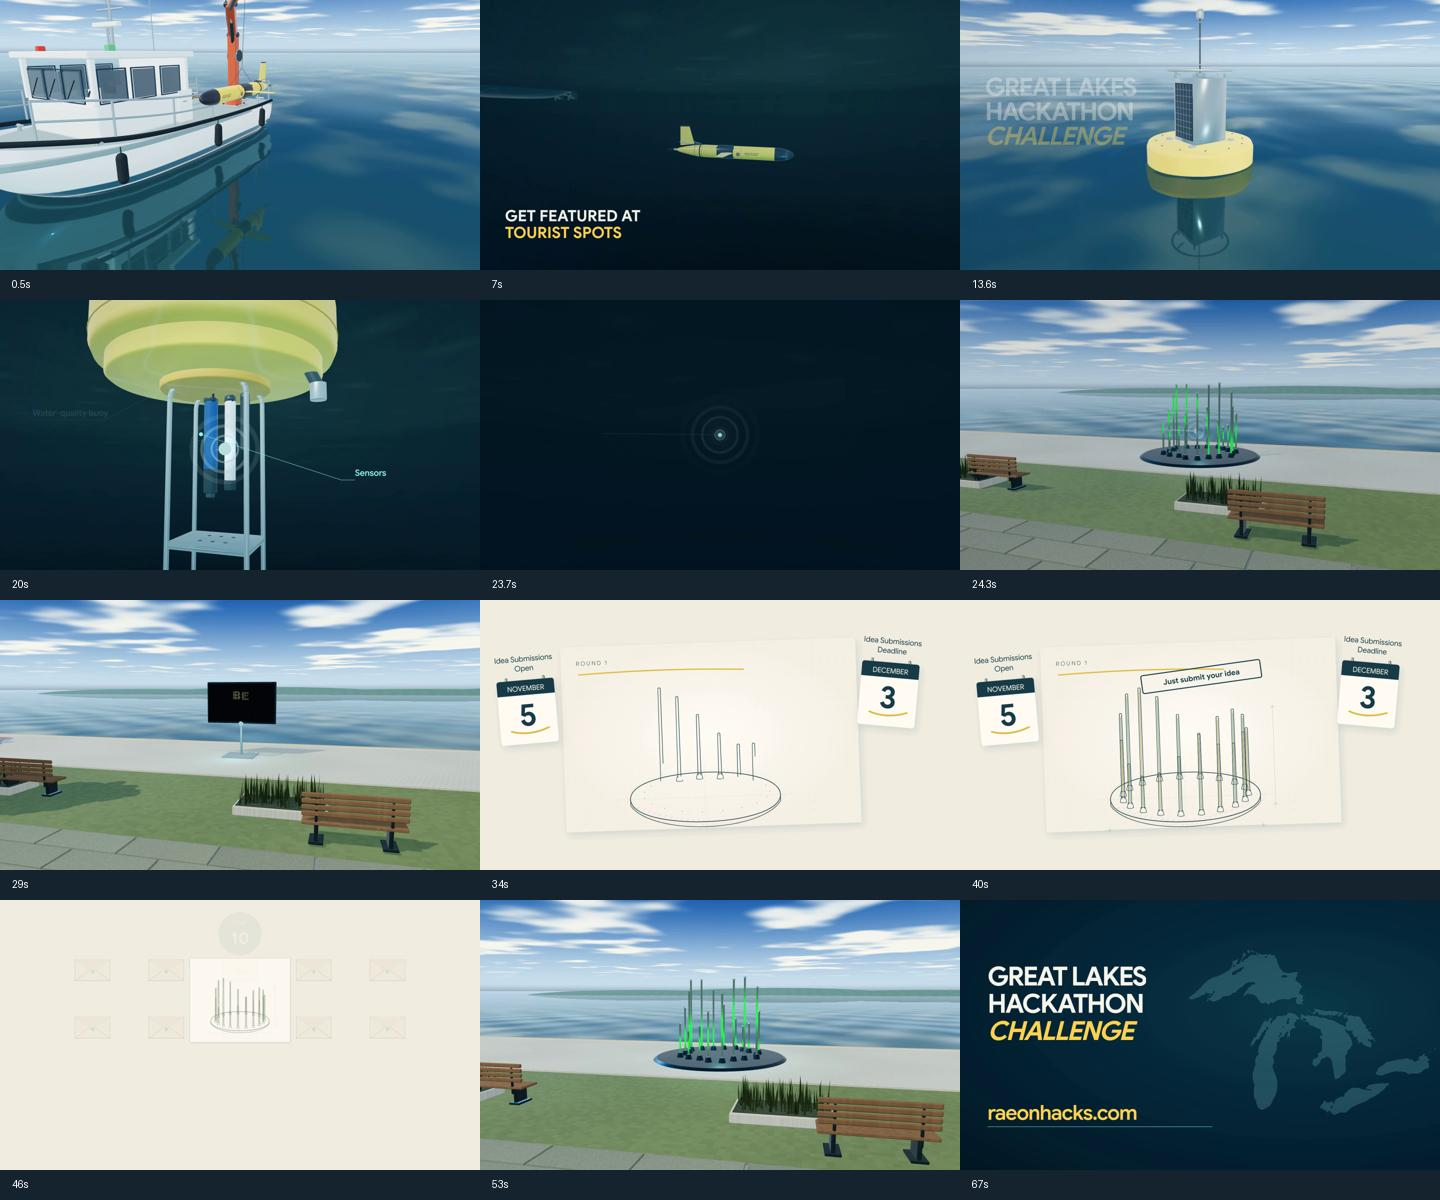
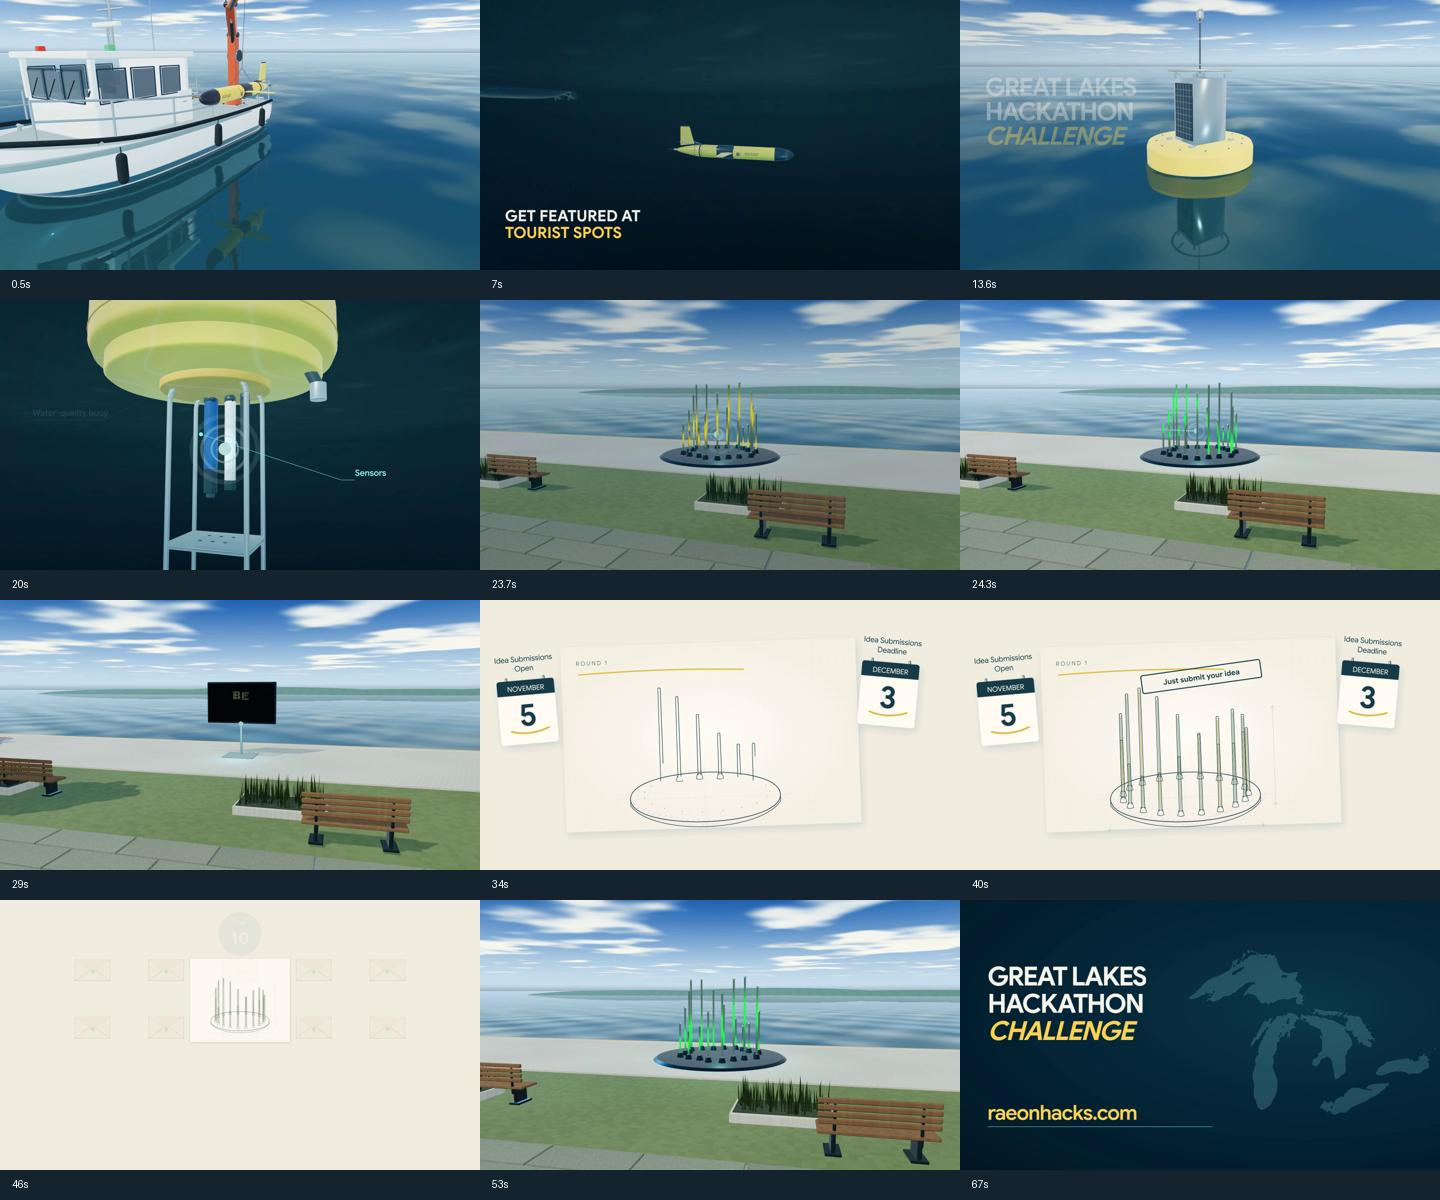
Remove buoy protrusion and dissolve directly into waterfront

Changed region(s): [[0.3125, 0.2467, 1.0, 0.4933]]

diff --git a/promo/src/rough-science.jsx b/promo/src/rough-science.jsx
@@ -2,6 +2,7 @@ import React,{useLayoutEffect,useRef,useState} from 'react';
 import {AbsoluteFill,Audio,staticFile,useCurrentFrame,delayRender,continueRender,cancelRender} from 'remotion';
 import {setup} from './rough-opening';
 import {ramp} from './opening';
+import {RoughWaterfront} from './rough-waterfront';
 import * as THREE from 'three';
 import {productionSciencePath} from './production-science-path.mjs';
 import {productionWaterHeight} from './production-water-height.mjs';
@@ -11,7 +12,6 @@ export function RoughScience({assembled=false,production=false}){
  useLayoutEffect(()=>{let disposed=false;setup(canvas.current,true,annotations.current,production).then(w=>{if(disposed){w.dispose();return}world.current=w;w.draw(sceneFrame);continueRender(handle)}).catch(cancelRender);return()=>{disposed=true;world.current?.dispose()}},[]);
  useLayoutEffect(()=>{world.current?.draw(sceneFrame)},[f]);
  const pose=productionSciencePath(f/30).camera,height=pose[1]-productionWaterHeight(pose[0],pose[2],13.5+f/30),under=production?1-THREE.MathUtils.smoothstep(height,-.12,.14):0;
- const bridge=production?ramp(f,301,317):0;
  const title=1-ramp(f,0,20),out=assembled?ramp(f,303,317):ramp(f,243,272);
  return <AbsoluteFill style={{background:'#03131f',overflow:'hidden'}}>
  <style>{`@font-face{font-family:'Google Sans';src:url('${staticFile('google-sans-latin.woff2')}') format('woff2');font-weight:100 900}`}</style>
@@ -21,7 +21,8 @@ export function RoughScience({assembled=false,production=false}){
  <AbsoluteFill style={{background:'linear-gradient(90deg,rgba(0,20,35,.35),transparent 65%)',opacity:title}}/>
  <div style={{position:'absolute',left:100,top:300,fontFamily:'Google Sans, sans-serif',fontWeight:700,fontSize:100,lineHeight:.98,letterSpacing:'-.055em',color:'#f6f6ed',opacity:title}}>GREAT LAKES<br/>HACKATHON<br/><span style={{color:'#ffd450',fontStyle:'italic'}}>CHALLENGE</span></div>
  <canvas ref={annotations} width={1920} height={1080} style={{position:'absolute',inset:0,width:1920,height:1080}}/>
- <AbsoluteFill style={{background:'#03131f',opacity:out}}/>
- {production&&<svg width="1920" height="1080" style={{position:'absolute',inset:0,opacity:bridge}}><circle cx="960" cy="540" r="8" fill="#8ff4ef"/>{[0,1,2].map(i=>{const phase=(f/30*1.3+i/3)%1;return <circle key={i} cx="960" cy="540" r={15+phase*26} fill="none" stroke="#87e4e1" strokeWidth="1.5" opacity={(1-phase)*.4}/>})}</svg>}
+ <AbsoluteFill style={{background:'#03131f',opacity:production?0:out}}/>
+ {production&&f>=280&&<AbsoluteFill style={{opacity:(()=>{const p=Math.max(0,Math.min(1,(f-280)/37));return p*p*(3-2*p)})()}}><RoughWaterfront production silent frameOverride={f-318}/></AbsoluteFill>}
+
  </AbsoluteFill>
 }

diff --git a/promo/src/rough-waterfront.jsx b/promo/src/rough-waterfront.jsx
@@ -4,15 +4,15 @@ import {setupInstallations} from './section2';
 import {ramp} from './opening';
 // Three scenic shots, mapped to the existing installation choreography.
 const sceneFrame=f=>f<61?interpolate(f,[0,60],[0,123]):f<103?interpolate(f,[61,102],[124,241]):interpolate(f,[103,211],[242,359]);
-export function RoughWaterfront({production=false}){
- const f=useCurrentFrame(),canvas=useRef(null),world=useRef(null);const [handle]=useState(()=>delayRender('three waterfront moments'));
+export function RoughWaterfront({production=false,frameOverride=null,silent=false}){
+ const timelineFrame=useCurrentFrame(),f=frameOverride??timelineFrame,canvas=useRef(null),world=useRef(null);const [handle]=useState(()=>delayRender('three waterfront moments'));
  useLayoutEffect(()=>{world.current=setupInstallations(canvas.current,true,true,false,false,production);world.current.draw(sceneFrame(f),f+45);continueRender(handle);return()=>world.current?.dispose()},[]);
  useLayoutEffect(()=>{world.current?.draw(sceneFrame(f),f+45)},[f]);
  const sketch=ramp(f,198,211);
  return <AbsoluteFill style={{background:'#a5c4cc',overflow:'hidden'}}>
- <Audio src={staticFile('audio/ashley-reference.mp3')} trimBefore={723}/>
+ {!silent&&<Audio src={staticFile('audio/ashley-reference.mp3')} trimBefore={723}/>}
  <canvas ref={canvas} style={{width:1920,height:1080}}/>
- {production&&f<20&&<AbsoluteFill style={{background:"#03131f",opacity:1-ramp(f,0,20)}}><svg viewBox="0 0 1920 1080"><circle cx="960" cy="540" r="16" fill="#8ff4ef"/>{[0,1,2].map(i=><circle key={i} cx="960" cy="540" r={24+((f/30*1.3+i/3)%1)*100} stroke="#8ff4ef" strokeWidth="1.5" fill="none" opacity=".35"/>)}</svg></AbsoluteFill>}
+
  {f>197&&<AbsoluteFill style={{opacity:sketch,background:'#f1eee2'}}><svg viewBox="0 0 1920 1080"><path d="M-100 630 Q650 620 900 540 Q1000 440 1100 540 Q1200 620 1290 530" fill="none" stroke="#123544" strokeWidth="3" strokeDasharray="2200" strokeDashoffset={2200*(1-sketch)}/></svg></AbsoluteFill>}
  </AbsoluteFill>
 }

diff --git a/promo/src/rough-opening.jsx b/promo/src/rough-opening.jsx
@@ -58,6 +58,8 @@ export async function setup(canvas,science=false,annotationCanvas=null,productio
 
  const loader=new GLTFLoader();loader.setMeshoptDecoder(MeshoptDecoder);const gltf=await loader.loadAsync(staticFile('models/glhc002-buoy.glb'));const buoy=gltf.scene;scene.add(buoy);
  buoy.traverse(o=>{if(o.isMesh){o.material.side=THREE.DoubleSide;if(o.material.name==='Powder-coated charcoal frame'){o.material.color.set('#8fa6ae');o.material.metalness=.65;o.material.roughness=.3}}});
+ // Film-only removal of the short angled cable stub above the sensor mount.
+ if(production){const fittings=buoy.getObjectByName('Marine_fasteners_and_fittings');if(fittings){const g=fittings.geometry,p=g.attributes.position,index=g.index.array,keep=[];const inStub=i=>p.getX(i)>-.10&&p.getX(i)<.02&&p.getY(i)>-.96&&p.getY(i)<-.76&&Math.abs(p.getZ(i))<.10;for(let i=0;i<index.length;i+=3){if(![index[i],index[i+1],index[i+2]].every(inStub))keep.push(index[i],index[i+1],index[i+2]);}g.setIndex(keep);g.computeBoundingSphere();}}
  const deployment=production?createDeploymentEffects(scene,renderer,environment,glider,boat,{extraRoots:[buoy],particleCenter:science?0:-54,emission:!science}):null;
  const bubbles=[];for(let i=0;i<28;i++){const b=mesh(new THREE.SphereGeometry(.035+(i%4)*.012,8,8),new THREE.MeshBasicMaterial({color:'#b7f1ef',transparent:true,opacity:.24}),scene);bubbles.push(b)}
  const splash=[];for(let i=0;i<3;i++){const m=mesh(new THREE.TorusGeometry(.45,.012,5,64),new THREE.MeshBasicMaterial({color:'#c5e8e3',transparent:true,opacity:.2}),scene);m.rotation.x=Math.PI/2;splash.push(m)}

diff --git a/promo/assemble-production.py b/promo/assemble-production.py
@@ -13,6 +13,6 @@ for i,scene in enumerate(plan['scenes']):
     filters.append(f"[{i}:v]trim=end_frame={scene['frames']},setpts=PTS-STARTPTS[v{i}]")
 command+=['-i',str(root/plan['voiceover'])]
 filters.append(''.join(f'[v{i}]' for i in range(len(plan['scenes'])))+f"concat=n={len(plan['scenes'])}:v=1:a=0[video]")
-command+=['-filter_complex',';'.join(filters),'-map','[video]','-map',f"{len(plan['scenes'])}:a:0",'-t',str(plan['duration_seconds']),'-r',str(plan['fps']),'-c:v','libx264','-preset','fast','-crf','16','-pix_fmt','yuv420p','-c:a','aac','-b:a','192k','-movflags','+faststart',str(root/'out/glhc-production-full.mp4')]
+command+=['-filter_complex',';'.join(filters),'-map','[video]','-map',f"{len(plan['scenes'])}:a:0",'-t',str(plan['duration_seconds']),'-r',str(plan['fps']),'-c:v','libx264','-preset','fast','-crf','16','-pix_fmt','yuv420p','-c:a','aac','-b:a','192k','-movflags','+faststart',str(root/'out'/plan.get('output_file','glhc-production-full.mp4'))]
 subprocess.run(command,check=True)
-print(root/'out/glhc-production-full.mp4')
+print(root/'out'/plan.get('output_file','glhc-production-full.mp4'))

diff --git a/promo/verify-production-assembly.py b/promo/verify-production-assembly.py
@@ -6,7 +6,7 @@ from PIL import Image,ImageDraw
 from scipy.signal import correlate,correlation_lags
 root=Path(__file__).resolve().parent
 plan=json.loads((root/'production-assembly.json').read_text())
-video=root/'out/glhc-production-full.mp4'
+video=root/'out'/plan.get('output_file','glhc-production-full.mp4')
 capture=cv2.VideoCapture(str(video));decoded=0
 while capture.read()[0]:decoded+=1
 assert decoded==plan['total_frames'],decoded

diff --git a/LOG.md b/LOG.md
@@ -462,3 +462,8 @@ Production spacing48->20 units, transition intervals48 frames; peak camera trave
 ### 2026-10-31 - Full production assembly
 - Organizer approved closing and requested full stitch. Production manifest selects opening-water-detailed-pass, science-detailed-pass, waterfront-speakers-final, round1-folded-envelope, round2-clear-tools and closing-production-final. Exact2058 frames/68.6s/30FPS. Continuous original voiceover replaces sliced scene audio to avoid AAC boundary gaps; CRF16 H264 export. No extra music or narration edits.
 - Verified2058/2058 frames1920x1080/30FPS68.6s,18 source-frame samples match approved exports (worst mean RGB error1.1485/255),12 full-cut moments visually inspected. Continuous source narration correlation0.99999846 with zero measured lag. Diff check passed. Evidence promo/evidence/assembled-production-verification.json and assembled-production-review.jpg. Output promo/out/glhc-production-full.mp4. No manual listening/playback or deployment claim. Next organizer full-cut review; spoken.com correction and music/SFX remain. Website/live unchanged.
+
+
+### 2026-10-31 - Clean buoy and direct waterfront transition
+- Organizer requested removal of small dark protrusion above sensor mounting and elimination of navy fade between buoy/sculpture scenes. Identified isolated angled fitting in Marine_fasteners_and_fittings (local bounds x-.10..02,y-.96..-.76,z+/-.10). Film-only indexed-triangle filter removes it; source/shared GLB and probe housings retained. Sensor still inspected.
+- Production science frames280-317 now smoothstep-dissolve directly into actual production waterfront frames-38..-1; production waterfront starts at0 without navy overlay. Narration/global frame count unchanged. No black transition card. Verified affected405/318/212-frame renders and full2058-frame1920x1080/30FPS68.6s decode. Nine transition moments and12 assembled moments visually inspected.64 stub triangles removed; shared GLB unchanged. Direct scene join mean RGB difference1.13756/255, transition luminance36.918..159.931 without dark overlay. Full source-frame samples pass; continuous narration correlation0.99999846, zero measured lag. Diff check passed. Evidence buoy-seamless-transition.json, buoy-waterfront-transition-review.jpg and assembled-production-verification.json/review.jpg. Artifact promo/out/glhc-production-seamless.mp4. No manual playback/listening/deployment claim.

diff --git a/TASKS.md b/TASKS.md
@@ -109,3 +109,8 @@ Production spacing48->20 units, transition intervals48 frames; peak camera trave
 ### 2026-10-31 - Full production assembly
 - Organizer approved closing and requested full stitch. Production manifest selects opening-water-detailed-pass, science-detailed-pass, waterfront-speakers-final, round1-folded-envelope, round2-clear-tools and closing-production-final. Exact2058 frames/68.6s/30FPS. Continuous original voiceover replaces sliced scene audio to avoid AAC boundary gaps; CRF16 H264 export. No extra music or narration edits.
 - Verified2058/2058 frames1920x1080/30FPS68.6s,18 source-frame samples match approved exports (worst mean RGB error1.1485/255),12 full-cut moments visually inspected. Continuous source narration correlation0.99999846 with zero measured lag. Diff check passed. Evidence promo/evidence/assembled-production-verification.json and assembled-production-review.jpg. Output promo/out/glhc-production-full.mp4. No manual listening/playback or deployment claim. Next organizer full-cut review; spoken.com correction and music/SFX remain. Website/live unchanged.
+
+
+### 2026-10-31 - Clean buoy and direct waterfront transition
+- Organizer requested removal of small dark protrusion above sensor mounting and elimination of navy fade between buoy/sculpture scenes. Identified isolated angled fitting in Marine_fasteners_and_fittings (local bounds x-.10..02,y-.96..-.76,z+/-.10). Film-only indexed-triangle filter removes it; source/shared GLB and probe housings retained. Sensor still inspected.
+- Production science frames280-317 now smoothstep-dissolve directly into actual production waterfront frames-38..-1; production waterfront starts at0 without navy overlay. Narration/global frame count unchanged. No black transition card. Verified affected405/318/212-frame renders and full2058-frame1920x1080/30FPS68.6s decode. Nine transition moments and12 assembled moments visually inspected.64 stub triangles removed; shared GLB unchanged. Direct scene join mean RGB difference1.13756/255, transition luminance36.918..159.931 without dark overlay. Full source-frame samples pass; continuous narration correlation0.99999846, zero measured lag. Diff check passed. Evidence buoy-seamless-transition.json, buoy-waterfront-transition-review.jpg and assembled-production-verification.json/review.jpg. Artifact promo/out/glhc-production-seamless.mp4. No manual playback/listening/deployment claim.

diff --git a/NOW.md b/NOW.md
@@ -1,9 +1,9 @@
-# Active Initiative - GLHC-004 full production assembly
+# Active Initiative - GLHC-004 buoy detail and seamless waterfront transition
 
-Status: complete, organizer full-cut review pending. Main8b4e7d9 fetched ancestor.
+Status: complete, organizer review pending. Main8b4e7d9 fetched ancestor.
 
-Assembled latest approved six production exports using promo/production-assembly.json and assemble-production.py. Includes detailed glider/boat/water/science, five speakers on bronze hexagon, LED without round plinth, matching calendars/folded sealed envelope, clear tools/no prize badge, finished closing. Original continuous voiceover used.
+Film-only removal of short dark angled fitting above sensors. Replaced navy bridge with smoothstep direct dissolve into incoming waterfront across science280-317, then contiguous waterfront local0. Other approved scenes/timing retained. Notes promo/BUOY-TRANSITION.md.
 
-Verified2058/2058 frames1920x1080/30FPS68.6s,18 source-frame samples match approved exports (worst mean RGB error1.1485/255),12 full-cut moments visually inspected. Continuous source narration correlation0.99999846 with zero measured lag. Diff check passed. Evidence promo/evidence/assembled-production-verification.json and assembled-production-review.jpg. Output promo/out/glhc-production-full.mp4. No manual listening/playback or deployment claim.
+Verified affected405/318/212-frame renders and full2058-frame1920x1080/30FPS68.6s decode. Nine transition moments and12 assembled moments visually inspected.64 stub triangles removed; shared GLB unchanged. Direct scene join mean RGB difference1.13756/255, transition luminance36.918..159.931 without dark overlay. Full source-frame samples pass; continuous narration correlation0.99999846, zero measured lag. Diff check passed. Evidence buoy-seamless-transition.json, buoy-waterfront-transition-review.jpg and assembled-production-verification.json/review.jpg. Artifact promo/out/glhc-production-seamless.mp4. No manual playback/listening/deployment claim.
 
-Next: organizer reviews full cut. Remaining final spoken.ca->.com correction and music/SFX, if desired. No website/live changes; prior rough export retained.
+Next: organizer reviews revised full cut. Remaining spoken.ca->.com correction/music/SFX retained. Website/live infrastructure unchanged; previous full cut retained.

diff --git a/promo/BUOY-TRANSITION.md b/promo/BUOY-TRANSITION.md
@@ -1,0 +1,9 @@
+# Buoy-to-waterfront revision
+
+The film runtime removes64 triangles belonging to the short angled cable stub in the combined Marine_fasteners_and_fittings mesh. Filtering uses the isolated local bounds x(-.10,.02), y(-.96,-.76), z(-.10,.10). It retains other fittings and probe geometry. Shared website GLB is not modified.
+
+ProductionScience frames280-317 blend directly into ProductionWaterfront local frames-38..-1 with smoothstep opacity. RoughWaterfront accepts frameOverride and silent so the incoming scene can render before its nominal start without duplicate narration. Both former navy bridge overlays are disabled/removed in production. Waterfront local0 follows the preview local-1, maintaining environmental and particle animation continuity. Rough/default science still retains its historical fade.
+
+Production manifest now points to opening-clean-buoy.mp4, science-seamless-waterfront.mp4 and waterfront-no-dark-fade.mp4. Other approved sections and2058-frame68.6s timing are retained. Full cut is glhc-production-seamless.mp4; original continuous narration is mapped once. Spoken domain correction remains separate.
+
+Evidence: buoy-seamless-transition.json, buoy-waterfront-transition-review.jpg and assembled-production-verification.json. No deployment changes.
